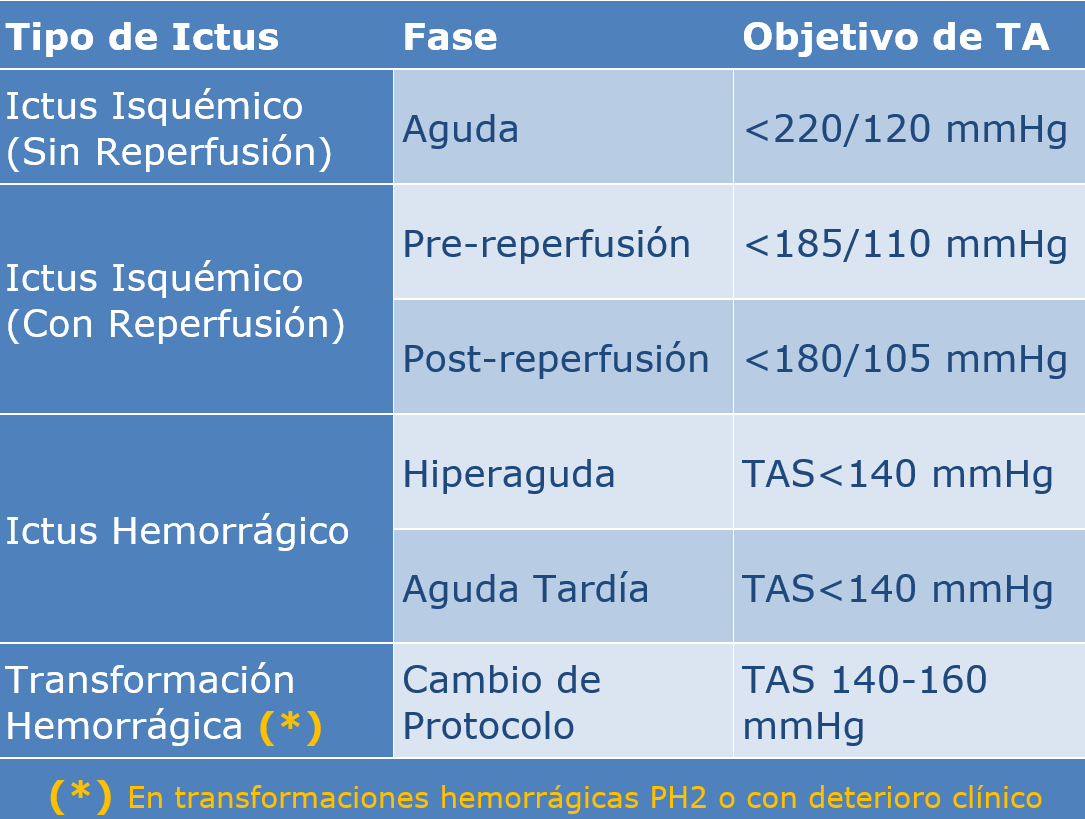
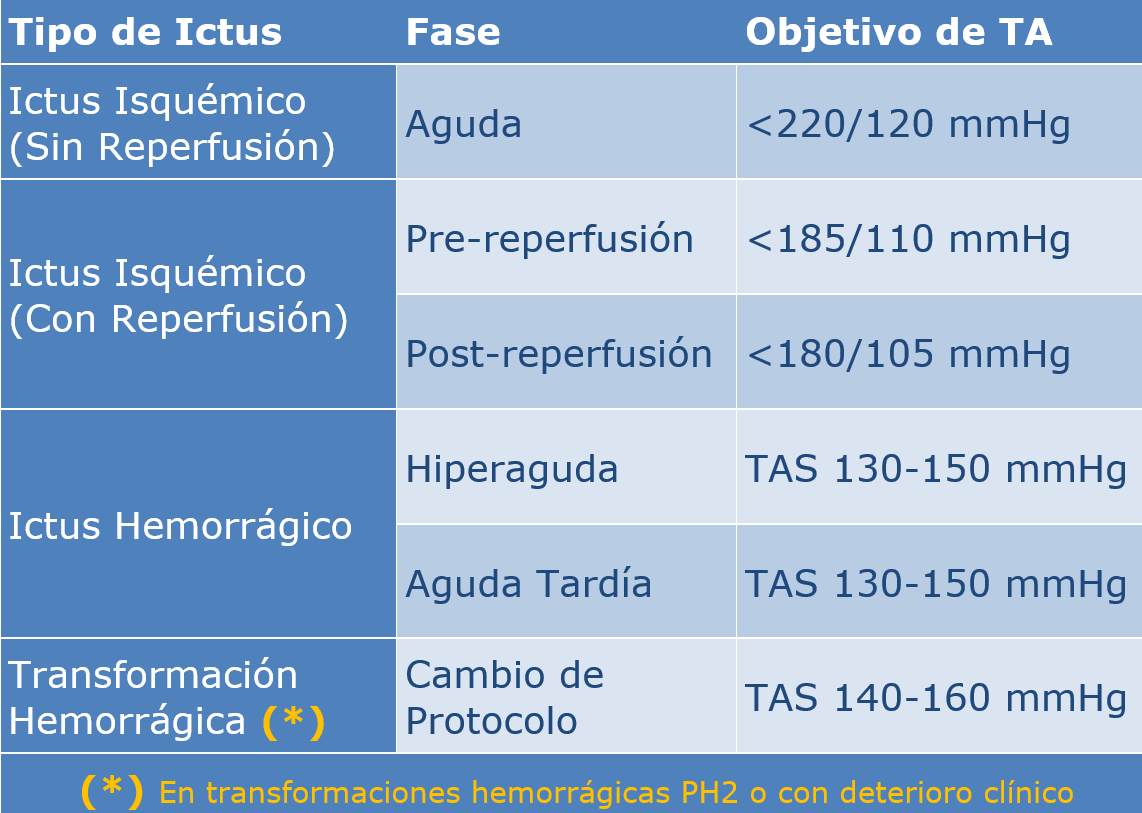
Mejora de la página de algoritmo de HTA

diff --git a/www/protocolos/312_algoritmo_tratamiento.html b/www/protocolos/312_algoritmo_tratamiento.html
@@ -230,14 +230,198 @@ footer img{max-width:320px;height:auto;opacity:.95}
       </div>
     </header>
     <main>
-      <p>El manejo de la hipertensión arterial en la Unidad de Ictus
-        requiere un enfoque individualizado, adaptado a la fase
-        evolutiva del evento, la situación clínica y los valores de
-        presión arterial. A continuación se presentan los esquemas
-        gráficos del protocolo institucional.</p>
+      <div align="center"><img src="img/algoritmohta.png" alt="Tratamiento de la HTA en el ictus agudo" width="100%"></div>
+
+      <p>El manejo de la tensión arterial (TA) en el ictus agudo debe
+        individualizarse en función del tipo de ictus (isquémico o
+        hemorrágico), la indicación de terapias de reperfusión y la
+        situación clínica del paciente. El objetivo es optimizar la
+        perfusión cerebral evitando tanto la hipoperfusión como la
+        transformación hemorrágica o la expansión del hematoma.</p>
+      <hr width="100%" size="2">
+      <div align="justify"><b>Principios generales</b>
+        <ul>
+          <li>Monitorización estrecha de la TA, con <b>controles cada
+              5-15 minutos</b> en fase aguda.</li>
+          <li>Preferencia por <b>fármacos intravenosos de acción rápida
+              y titulables</b>.</li>
+          <li><b><font color="#990000">Evitar descensos bruscos de TA</font></b>,
+            especialmente en ictus isquémico.</li>
+          <li>Mantener <b>estabilidad tensional</b>, minimizando la
+            variabilidad.</li>
+        </ul>
+      </div>
+      <hr width="100%" size="2" align="justify">
+      <p align="justify"><b>Ictus isquémico</b> </p>
+      <div align="justify">
+        <ul>
+          <li><b>Candidatos a reperfusión</b> (fibrinolisis intravenosa
+            y/o trombectomía):</li>
+          <ul>
+            <li>Umbral de tratamiento previo a reperfusión: TA &gt; <b>185/110
+
+                mmHg</b>.</li>
+            <li>Objetivo tras el tratamiento de reperfusión: &lt; <b>180/105
+
+                mmHg</b> durante las primeras 24 horas.<br>
+            </li>
+            <li>Mantener cifras estables durante las primeras 24 horas
+              tras la reperfusión.</li>
+          </ul>
+          <li><b>No candidatos a reperfusión:</b></li>
+          <ul>
+            <li>Umbral de tratamiento: TA &gt; <b>220/120 mmHg</b>.</li>
+            <li>Objetivo: reducción aproximada del 15 por ciento en las
+              primeras 24 horas.</li>
+            <li>Evitar reducciones intensivas o rápidas salvo
+              situaciones específicas.</li>
+          </ul>
+        </ul>
+      </div>
+      <hr width="100%" size="2" align="justify">
+      <div align="justify"><b>Ictus hemorrágico</b>
+        <ul>
+          <ul>
+            <li>Umbral de tratamiento: TAS &gt; 150 mmHg.</li>
+            <li>Objetivo: reducción precoz a aproximadamente 140 mmHg
+              (rango <b>130-150 mmHg</b>).</li>
+            <li><b><font color="#990000">Evitar descensos por debajo de
+                  130 mmHg</font></b>.</li>
+          </ul>
+          <ul>
+            <li>En TAS &gt; 220 mmHg, considerar reducción intensiva con
+              monitorización estrecha.</li>
+            <li>Priorizar un descenso controlado y sostenido, evitando
+              variabilidad.</li>
+          </ul>
+        </ul>
+      </div>
+      <hr width="100%" size="2" align="justify">
+      <p align="justify"><b>Selección de fármacos</b></p>
+      <p align="justify">La elección debe basarse en el perfil clínico
+        del paciente y las contraindicaciones:<br>
+      </p>
+      <div align="justify">
+        <ul>
+          <li><b>Labetalol:</b> fármaco de uso inicial frecuente,
+            especialmente en bolos intravenosos. Indicado en pacientes
+            con <i>frecuencia cardiaca estable</i>.&nbsp;</li>
+          <ul>
+            <li><font color="#990000">Evitar en asma, insuficiencia
+                cardiaca descompensada, bradicardia grave o bloqueo
+                auriculoventricular avanzado.</font></li>
+          </ul>
+          <li><b>Urapidilo:</b> alternativa eficaz, <i>especialmente si
+              se desea evitar bradicardia o existen contraindicaciones
+              para betabloqueantes</i>. No incrementa la presión
+            intracraneal.</li>
+          <ul>
+            <li><font color="#990000">Evitar en estenosis aórtica o shut
+                AV.</font><br>
+            </li>
+          </ul>
+          <li><b>Clevidipino:</b> antagonista del calcio de vida media
+            ultracorta, administrado en perfusión intravenosa. Permite
+            un <i>control rápido, preciso y finamente titulable</i> de
+            la presión arterial. Indicado especialmente <i>en
+              situaciones donde se requiere estabilidad tensional
+              estrecha, como en la hemorragia intracerebral aguda</i>.
+            No ha demostrado superioridad clínica frente a otros agentes
+            intravenosos, pero su perfil farmacocinético lo hace
+            especialmente útil en el control dinámico de la tensión
+            arterial. <br>
+          </li>
+          <ul>
+            <li><font color="#990000">Contraindicaciones y precauciones
+                de clevidipino: alergia a huevo o soja, dislipemia
+                grave, pancreatitis, estenosis aórtica crítica.</font></li>
+          </ul>
+          <li><b>Nitroprusiato de sodio:</b> opción de <i>último
+              recurso en casos refractarios</i>. Uso restringido en
+            entorno monitorizado de UCI. <br>
+          </li>
+          <ul>
+            <li><font color="#990000">Riesgo de aumento de presión
+                intracraneal. Contraindicado en atrofia óptica de Leber,
+                ambliopía e HTIC.<br>
+              </font></li>
+          </ul>
+        </ul>
+      </div>
+      <hr width="100%" size="2">
+      <div align="justify"><b>Estrategia de ajuste terapéutico</b><br>
+        <ol>
+          <li><b>Iniciar </b>tratamiento con bolos intravenosos o
+            perfusión continua según situación clínica.</li>
+          <li><b>Titulación progresiva</b> según respuesta tensional.</li>
+          <li><b>Reevaluación continua</b> de TA y estado neurológico.</li>
+          <li>Si no se alcanza el objetivo o aparecen efectos adversos,
+            <b>cambiar a un fármaco con diferente mecanismo de acción</b>.
+          </li>
+        </ol>
+        <hr width="100%" size="2">
+        <p align="justify"><b>Mantenimiento y transición a tratamiento
+            oral</b></p>
+        <p align="justify">Una vez alcanzado el objetivo tensional:<br>
+        </p>
+        <ul>
+          <li><b>Mantener cifras estables</b> evitando variabilidad
+            significativa.</li>
+          <li><b>Reducir progresivamente la intensidad del tratamiento
+              intravenoso</b>, evitando suspensiones bruscas.</li>
+          <li><b>Iniciar tratamiento antihipertensivo por vía oral de
+              forma precoz</b>, una vez el paciente esté clínicamente
+            estable y con capacidad de tolerancia oral.</li>
+          <li><b>Solapar durante un periodo transitorio el tratamiento
+              intravenoso y oral</b> para evitar rebote hipertensivo.</li>
+          <li><b>Seleccionar tratamiento oral según perfil del paciente
+              y comorbilidades.</b></li>
+          <li><b>En ictus isquémico, evitar descensos excesivos en fase
+              subaguda precoz.</b></li>
+          <li><b>En hemorragia intracerebral, mantener control estricto
+              de TA durante los primeros días</b> para reducir riesgo de
+            expansión.</li>
+        </ul>
+        <hr width="100%" size="2">
+        <p align="justify"><b>Selección de tratamiento oral</b></p>
+        <p align="justify">Se recomienda iniciar fármacos de uso
+          habitual en el control de la hipertensión arterial,
+          priorizando aquellos con evidencia en prevención secundaria
+          vascular. Los inhibidores del sistema renina-angiotensina (<b>IECA
+            o ARA II</b>) constituyen una opción de primera línea,
+          especialmente en combinación con <b>diuréticos tiazídicos</b>.
+          Los <b>antagonistas del calcio</b> son una alternativa
+          eficaz, particularmente en pacientes de edad avanzada o con
+          rigidez arterial. Los <b>betabloqueantes </b>pueden
+          considerarse en presencia de indicaciones específicas
+          (cardiopatía isquémica, fibrilación auricular). <b>La
+            elección debe individualizarse según comorbilidades, perfil
+            hemodinámico y tolerancia.</b></p>
+      </div>
+      <hr width="100%" size="2">
+      <div align="justify"><b>Consideraciones adicionales</b>
+        <ul>
+          <li>Evitar variabilidad excesiva de la TA.</li>
+          <li>Tener en cuenta comorbilidades (cardiopatía, enfermedad
+            pulmonar, valvulopatías).</li>
+          <li>Integrar el manejo de la TA en el abordaje global del
+            ictus.</li>
+          <li><b><font color="#990000">Nota: en nuestro medio no se
+                dispone de nicardipino, por lo que no se ha tenido en
+                cuenta en la elaboración de este protocolo.</font></b><br>
+          </li>
+        </ul>
+      </div>
       <hr>
-      <figure><img src="img/algoritmo%20gu%C3%ADa.png" alt="Guía
-          Farmacológica aplicada" width="1172" height="2133"><figcaption>
+      <figure>
+        <p align="justify"><b>Infografías</b></p>
+        <p align="justify">A continuación se presentan infografías de
+          apoyo respecto al control agudo de la tensión arterial en la
+          Unidad de Ictus:<br>
+        </p>
+        <img src="img/algoritmo%20gu%C3%ADa.png" alt="Guía Farmacológica
+          aplicada" width="1172" height="2133"><br>
+        <figcaption>
           <hr width="100%" size="2"></figcaption> </figure>
       <figure><img src="img/algoritmo.png" alt="Algoritmo HTA"
           width="1524" height="1526"><figcaption></figcaption>&nbsp; <br>
